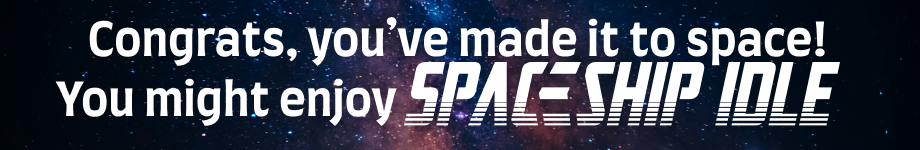
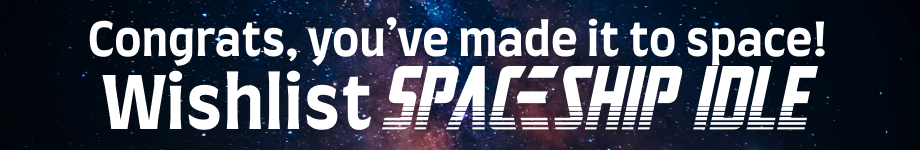
[Build]

Changed region(s): [[0.0609, 0.4, 0.913, 0.88]]

diff --git a/src/scripts/ui/SpaceshipIdleComponent.tsx b/src/scripts/ui/SpaceshipIdleComponent.tsx
@@ -1,15 +1,29 @@
 import type React from "react";
 import type { Building } from "../../../shared/definitions/BuildingDefinitions";
+import type { GameState } from "../../../shared/logic/GameState";
+import { notifyGameStateUpdate } from "../../../shared/logic/GameStateLogic";
 import SpaceshipIdle from "../../images/SpaceshipIdle.png";
 import { openUrl } from "../utilities/Platform";
+import { playClick } from "../visuals/Sound";
 
-export function SpaceshipIdleComponent({ type }: { type: Building }): React.ReactNode {
+export function SpaceshipIdleComponent({
+   type,
+   gameState,
+}: { type: Building; gameState: GameState }): React.ReactNode {
+   if (gameState.unlockedUpgrades.SpaceshipIdle) {
+      return null;
+   }
    if (type === "InternationalSpaceStation" || type === "DysonSphere" || type === "AldersonDisk") {
       return (
          <img
             src={SpaceshipIdle}
             className="w100 pointer"
-            onClick={() => openUrl("https://store.steampowered.com/app/3454630/Spaceship_Idle/")}
+            onClick={() => {
+               playClick();
+               gameState.unlockedUpgrades.SpaceshipIdle = true;
+               notifyGameStateUpdate();
+               openUrl("https://store.steampowered.com/app/3454630/Spaceship_Idle/");
+            }}
          />
       );
    }

diff --git a/shared/definitions/UpgradeDefinitions.ts b/shared/definitions/UpgradeDefinitions.ts
@@ -653,8 +653,15 @@ export class UpgradeDefinitions {
       },
       additionalUpgrades: () => [t(L.CommunismLevel5DescHTML)],
    };
-
    BritishMuseum: IUpgradeDefinition = { name: () => "", requireResources: {} };
+   SpaceshipIdle: IUpgradeDefinition = {
+      name: () => "",
+      requireResources: {},
+      tick: (gs) => {
+         addMultiplier("SpaceCenter", { output: 1, storage: 1 }, t(L.WishlistSpaceshipIdle));
+         addMultiplier("SpacecraftFactory", { output: 1, storage: 1 }, t(L.WishlistSpaceshipIdle));
+      },
+   };
 }
 
 export type Upgrade = keyof UpgradeDefinitions;

diff --git a/src/scripts/ui/UpgradableWonderBuildingBody.tsx b/src/scripts/ui/UpgradableWonderBuildingBody.tsx
@@ -19,7 +19,7 @@ export function UpgradableWonderBuildingBody({ gameState, xy }: IBuildingCompone
    }
    return (
       <div className="window-body">
-         <SpaceshipIdleComponent type={building.type} />
+         <SpaceshipIdleComponent gameState={gameState} type={building.type} />
          <BuildingDescriptionComponent gameState={gameState} xy={xy} />
          <fieldset>
             <div className="row">

diff --git a/shared/languages/en.ts b/shared/languages/en.ts
@@ -1489,4 +1489,5 @@ export const EN = {
    CerneAbbasGiantDesc: "A great person of the current age is born when a wonder is constructed",
    ThomasGresham: "Thomas Gresham",
    GuyFawkesNight: "Guy Fawkes Night: East India Company provides +2 Production Multiplier to buildings adjacent to caravansaries. Tower Bridge generates great people 20% faster",
+   WishlistSpaceshipIdle: "Wishlist Spaceship Idle",
 };
